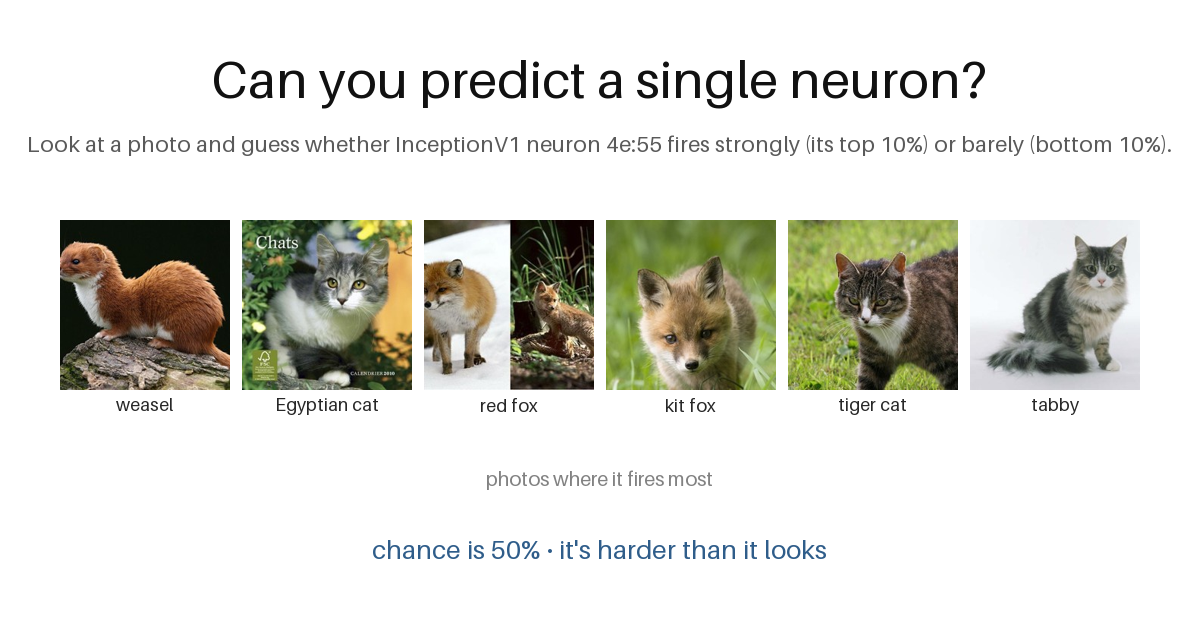
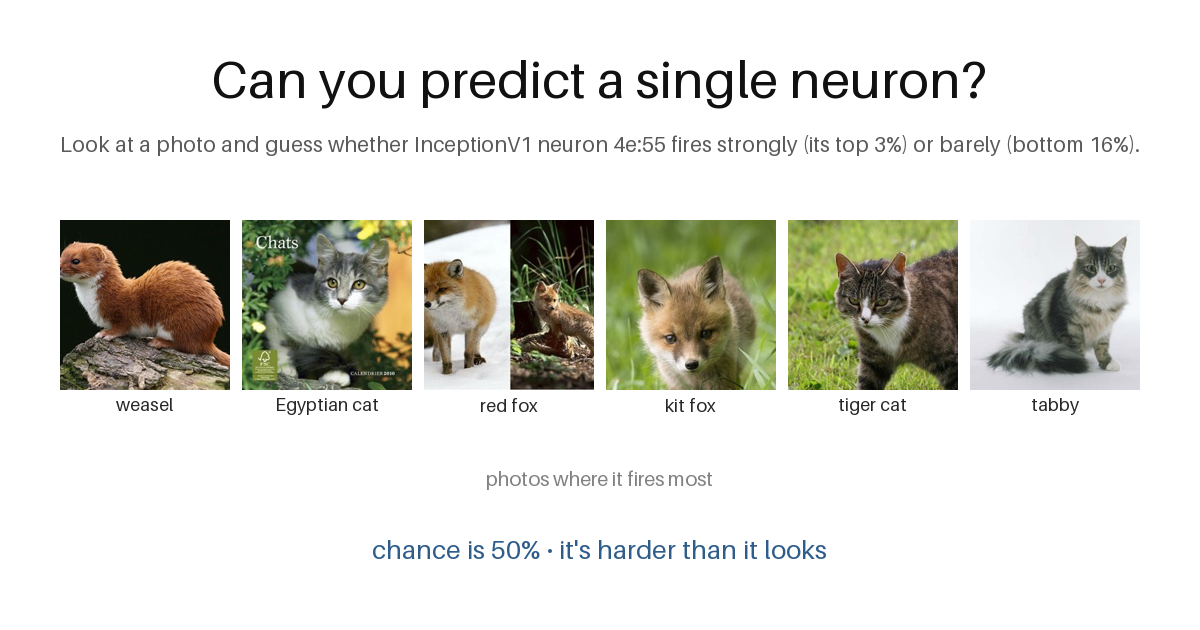
Default cutoffs back to >=30% / <5% of max, shown as percentiles (p96.9 / p16.1), with a note on why
Claude-Session: https://claude.ai/code/session_01EkWpH4vPX8BztTQmCBUcn1

Changed region(s): [[0.0308, 0.2111, 0.9867, 0.2413]]

diff --git a/index.html b/index.html
@@ -76,14 +76,15 @@ details { font-size: 12px; color: var(--muted); margin-top: 10px; }
 <body>
 <header>
   <h1>Predict InceptionV1 neuron 4e:55</h1>
-  <label title="ON = the photo is at or above this percentile of the neuron's activation over all 1.33M ImageNet photos">ON ≥ percentile <input id="on" type="number" step="1" min="1" max="99.9" value="90"></label>
-  <label title="OFF = the photo is at or below this percentile">OFF ≤ percentile <input id="off" type="number" step="1" min="0.1" max="99" value="10"></label>
+  <label title="ON = the photo is at or above this percentile of the neuron's activation over all 1.33M ImageNet photos">ON ≥ percentile <input id="on" type="number" step="0.1" min="1" max="99.9" value="96.9"></label>
+  <label title="OFF = the photo is at or below this percentile">OFF ≤ percentile <input id="off" type="number" step="0.1" min="0.1" max="99" value="16.1"></label>
   <button id="reset" title="Clear your local history">Reset history</button>
   <button class="linkbtn" id="whatBtn">What am I predicting?</button>
 </header>
 <main>
   <section class="card">
     <div id="task"></div>
+    <div class="hint" id="cutNote" style="text-align:left;margin-bottom:6px">Why these odd numbers: we started with “fires” = at least 30% of the neuron's max and “silent” = under 5%, and later rewrote those as percentiles (top 3.1%, bottom 16.1%). Something more principled like 90/10 would be nicer; we haven't gotten around to it.</div>
     <div id="poolLine">Loading…</div>
     <div class="stage"><canvas id="view" width="448" height="448"></canvas></div>
     <div class="answers">
@@ -94,7 +95,7 @@ details { font-size: 12px; color: var(--muted); margin-top: 10px; }
     <div class="hint">F = off · J = on · Space = next · H = toggle heatmap</div>
     <details><summary>About</summary>
       Each photo is shown as the 224×224 crop the network actually sees. Cutoffs are percentiles of 4e:55's activation over all 1.33M ImageNet photos
-      (its value on a photo = its strongest response anywhere in the image). Default: ON = top 10%, OFF = bottom 10%. Half the trials are ON photos and half OFF,
+      (its value on a photo = its strongest response anywhere in the image). Default: ON = top 3.1% (at least 30% of its max), OFF = bottom 16.1% (under 5% of its max). Half the trials are ON photos and half OFF,
       each drawn in proportion to how common they are in ImageNet; photos in between are never shown. After you answer you see the photo's percentile, its
       peak as % of the neuron's max, and a heatmap (bright where it fires). Your history stays in this browser.
     </details>
@@ -328,7 +329,8 @@ function explain() {
     </ul>
     <p>Half the photos are ON and half OFF, so guessing at random scores 50%. Photos in between are never shown.</p>
     <p class="note">This only tests the extremes, which is far easier than predicting how strongly the neuron responds to an ordinary photo.
-    After each guess you see the photo's percentile and a heatmap of where it fired. You can change the cutoffs at the top.</p>`;
+    After each guess you see the photo's percentile and a heatmap of where it fired. You can change the cutoffs at the top.</p>
+    <p class="note">Why these odd numbers: we started with “fires” = at least 30% of the neuron's max and “silent” = under 5%, and later rewrote those as percentiles (top 3.1%, bottom 16.1%). Something more principled like 90/10 would be nicer; we haven't gotten around to it.</p>`;
 }
 function openIntro() { explain(); $('#intro').classList.add('open'); }
 function closeIntro() { $('#intro').classList.remove('open'); try { localStorage.setItem(SEEN, '1'); } catch {} }
@@ -344,7 +346,7 @@ $('#whatBtn').onclick = openIntro;
       const [q, ex, on, off] = shared.split('~'), N = st.data.values.length;
       const qq = (q || '').split('.').map(x => Math.max(0, Math.min(100000, parseInt(x) || 0))).concat([0, 0, 0, 0]).slice(0, 4);
       const ee = (ex || '').split('_').concat(['', '', '', '']).slice(0, 4).map(g => g.split(',').map(Number).filter(i => Number.isInteger(i) && i >= 0 && i < N && g !== '').slice(0, 4));
-      const onv = Math.min(99.9, Math.max(1, +on || 90)), offv = Math.min(99, Math.max(0.1, +off || 10));
+      const onv = Math.min(99.9, Math.max(1, +on || 96.9)), offv = Math.min(99, Math.max(0.1, +off || 16.1));
       $('#on').value = onv; $('#off').value = offv; history.replaceState(null, '', location.pathname + `#on=${onv}&off=${offv}`);
       showCard(qq, ee, onv, offv, '', true);
     }
